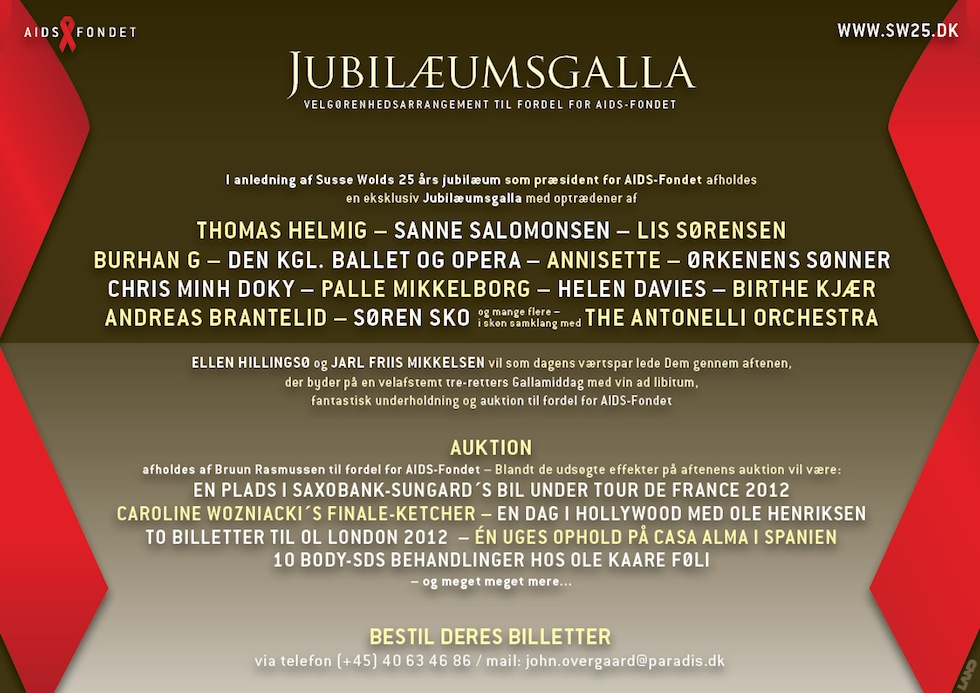
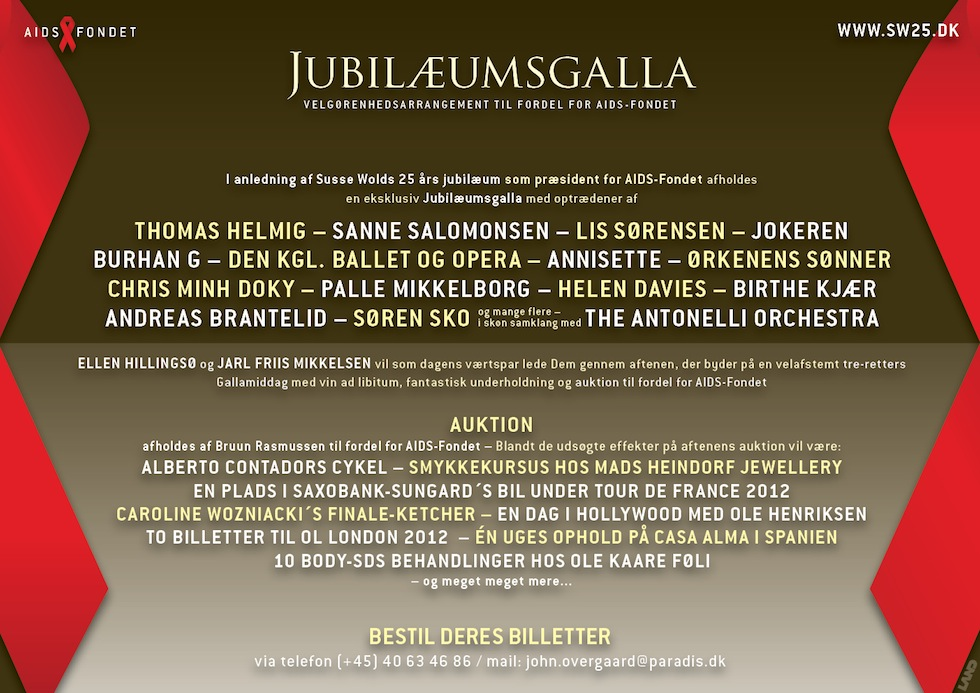
added new slide and related links

diff --git a/index.html b/index.html
@@ -20,6 +20,8 @@
           <a href="https://www.aidsfondet.dk/" target="_blank" title="AIDS-Fondet" class="link" style="top: 13px; left: 19px; width: 113px; height: 37px;">&nbsp;</a>
           <a href="mailto:john.overgaard@paradis.dk" class="link" style="bottom: 22px; left: 481px; width: 240px; height: 15px;">&nbsp;</a>
           <a href="http://www.land-designlab.com/" target="_blank" title="LAND Designlab" class="link" style="bottom: 0px; right: 0px; width: 20px; height: 30px;">&nbsp;</a>
+          <a href="http://saxobanksungard.com/" target="_blank" title="Saxobank Sungard" class="link" style="top: 455px; left: 135px; width: 248px; height: 15px;">&nbsp;</a>
+          <a href="http://www.madsheindorf.dk/" target="_blank" title="Mads Heindorf" class="link" style="top: 455px; left: 404px; width: 434px; height: 15px;">&nbsp;</a>
           <a href="http://saxobanksungard.com/" target="_blank" title="Saxobank Sungard" class="link" style="top: 478px; left: 189px; width: 595px; height: 15px;">&nbsp;</a>
           <a href="http://www.carolinewozniacki.dk/" target="_blank" title="Caroline Wozniacki" class="link" style="top: 503px; left: 111px; width: 361px; height: 15px;">&nbsp;</a>
           <a href="http://www.olehenriksen.com/" target="_blank" title="Ole Henriksen" class="link" style="top: 503px; left: 492px; width: 370px; height: 15px;">&nbsp;</a>
